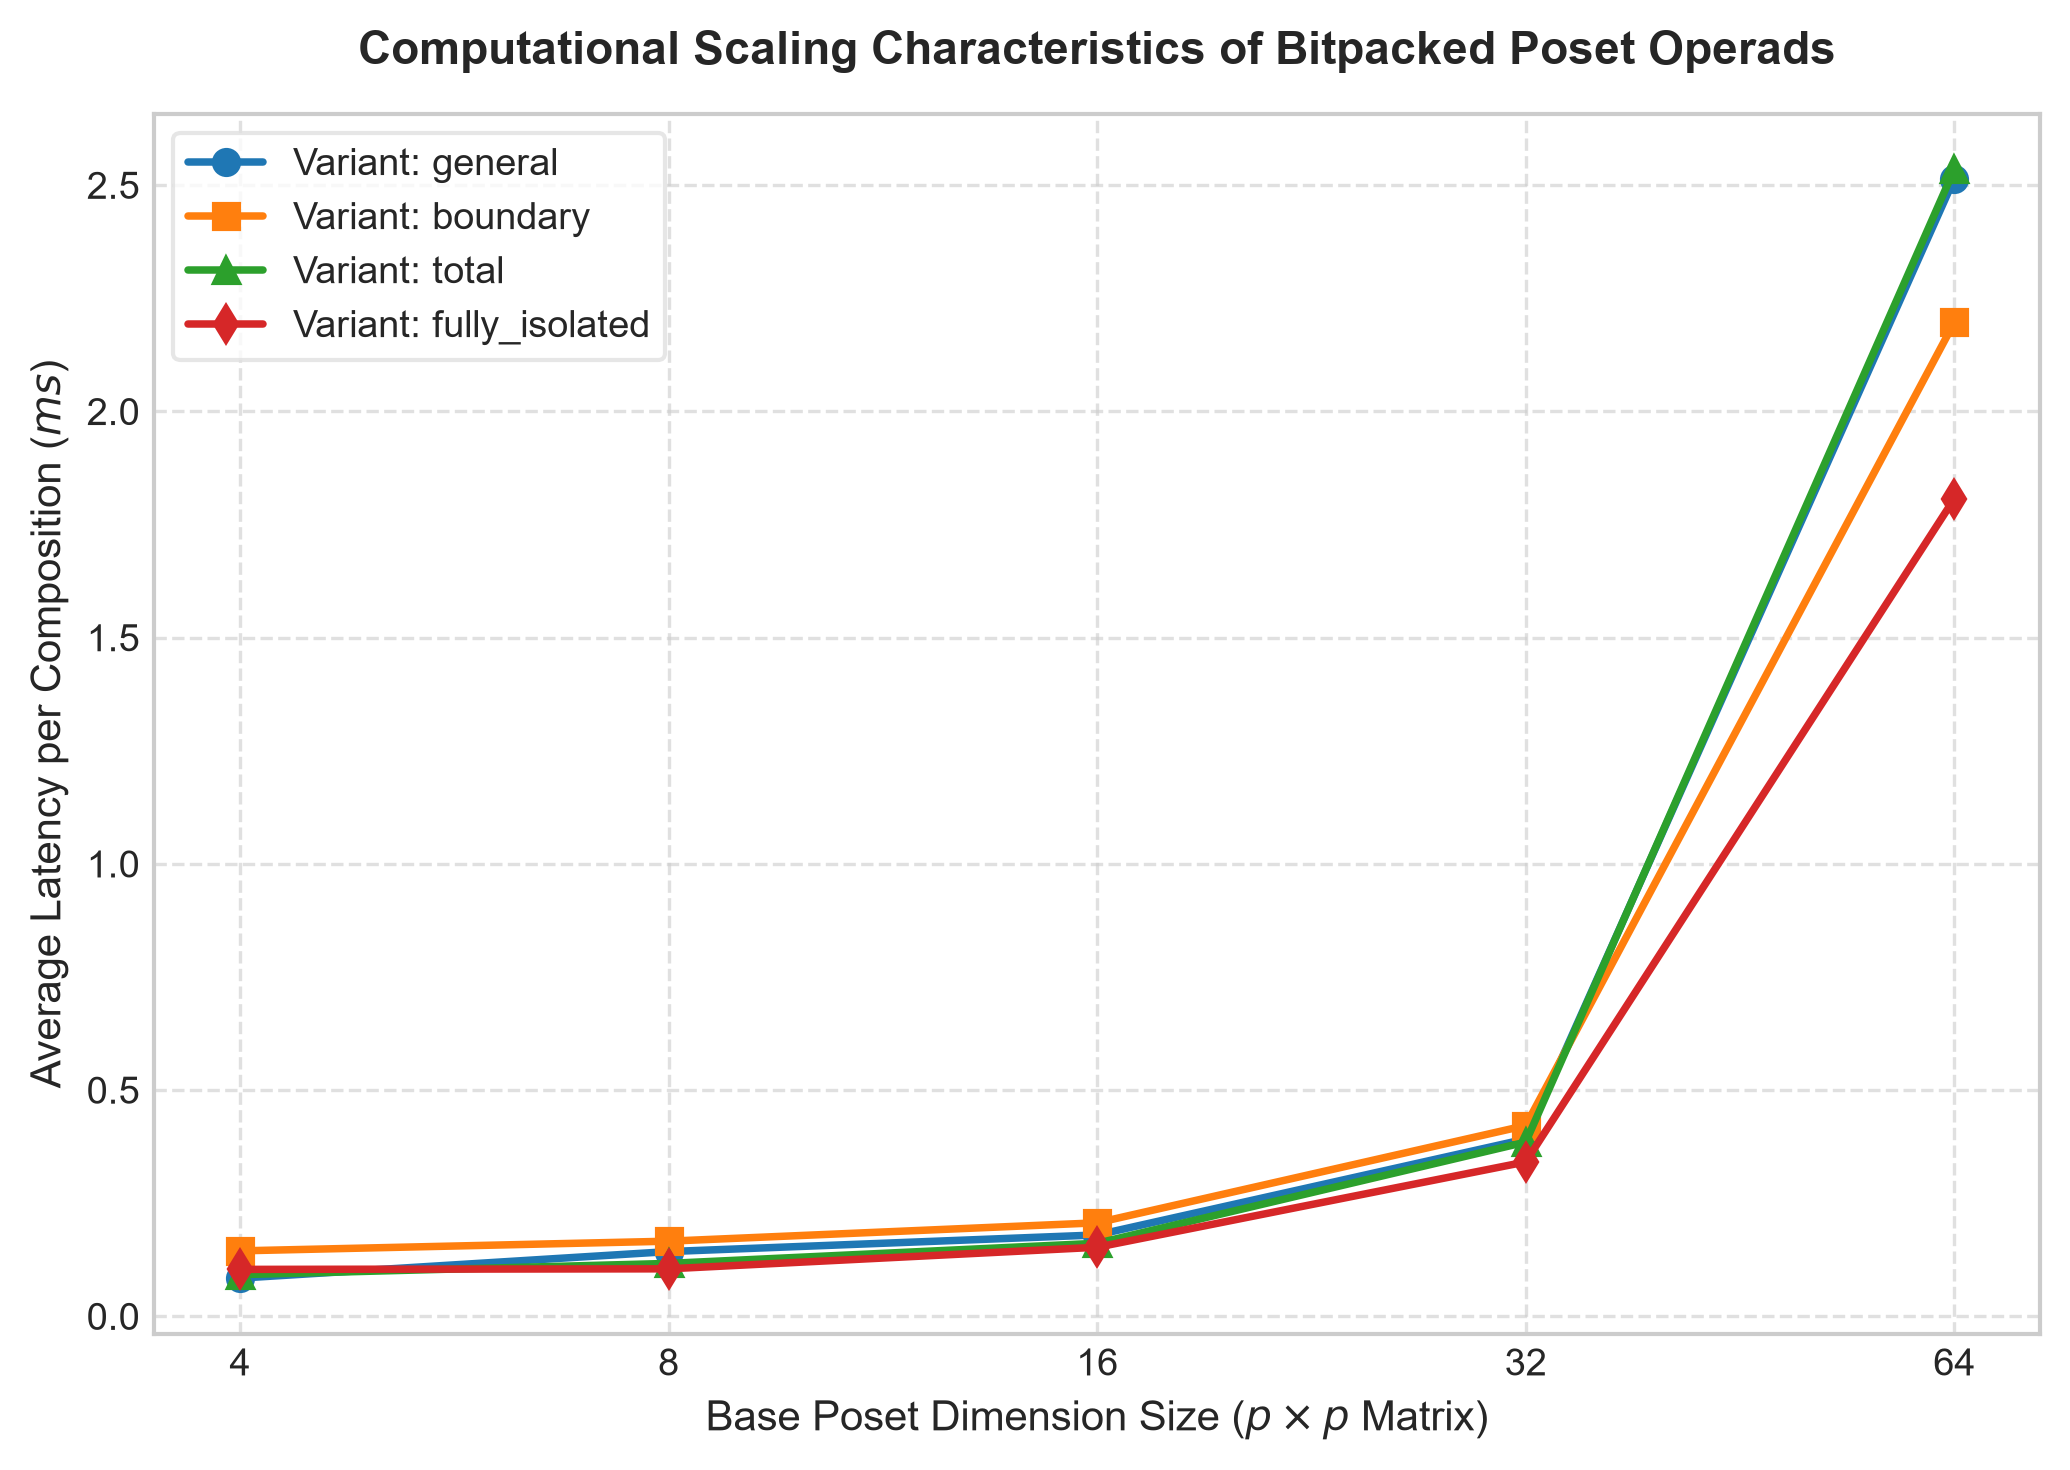
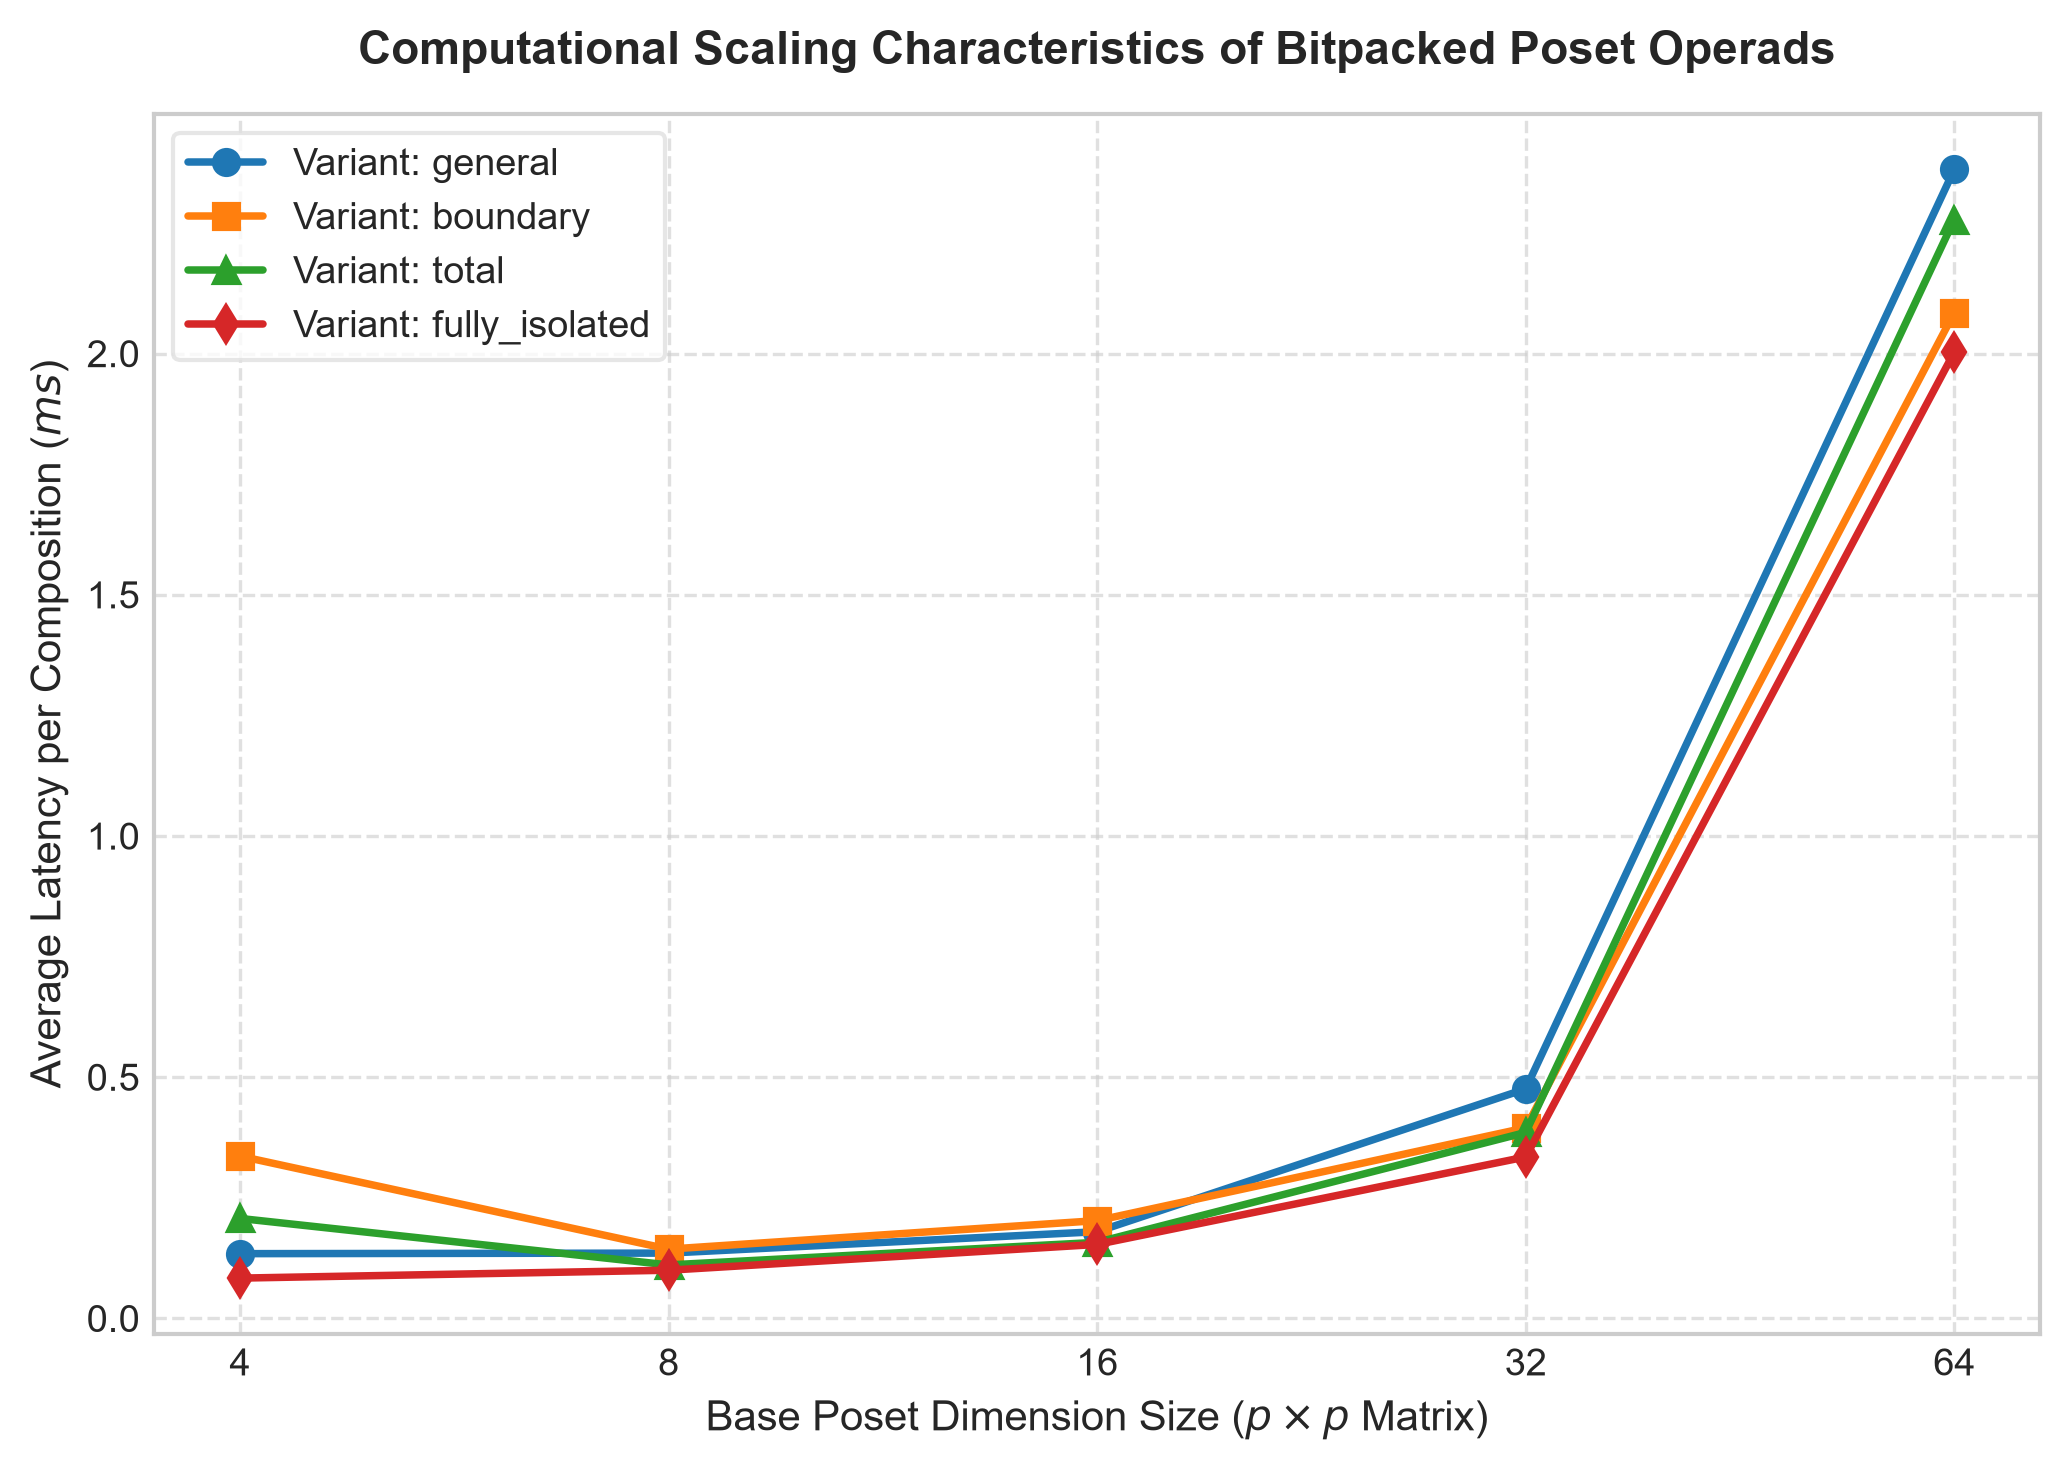
Structure: Reorganize repository into standard src/ and tests/ layout with automated pyproject path mappings

diff --git a/benchmark_poset.py b/benchmark_poset.py
@@ -1,7 +1,9 @@
 import time
 import json
 import numpy as np
-from poset_operad import PosetOperad
+from src.poset_operad import PosetOperad
+from src.poset_processor import PosetProcessor
+
 
 def generate_random_lower_triangular(dim: int) -> np.ndarray:
     """Generates a valid random lower triangular poset matrix with an active diagonal."""

diff --git a/verify_ops.py b/verify_ops.py
@@ -1,8 +1,8 @@
 import time
 import numpy as np
 from joblib import Parallel, delayed
-from poset_operad import PosetOperad
-from poset_processor import PosetProcessor
+from src.poset_operad import PosetOperad
+from src.poset_processor import PosetProcessor
 import csv
 
 